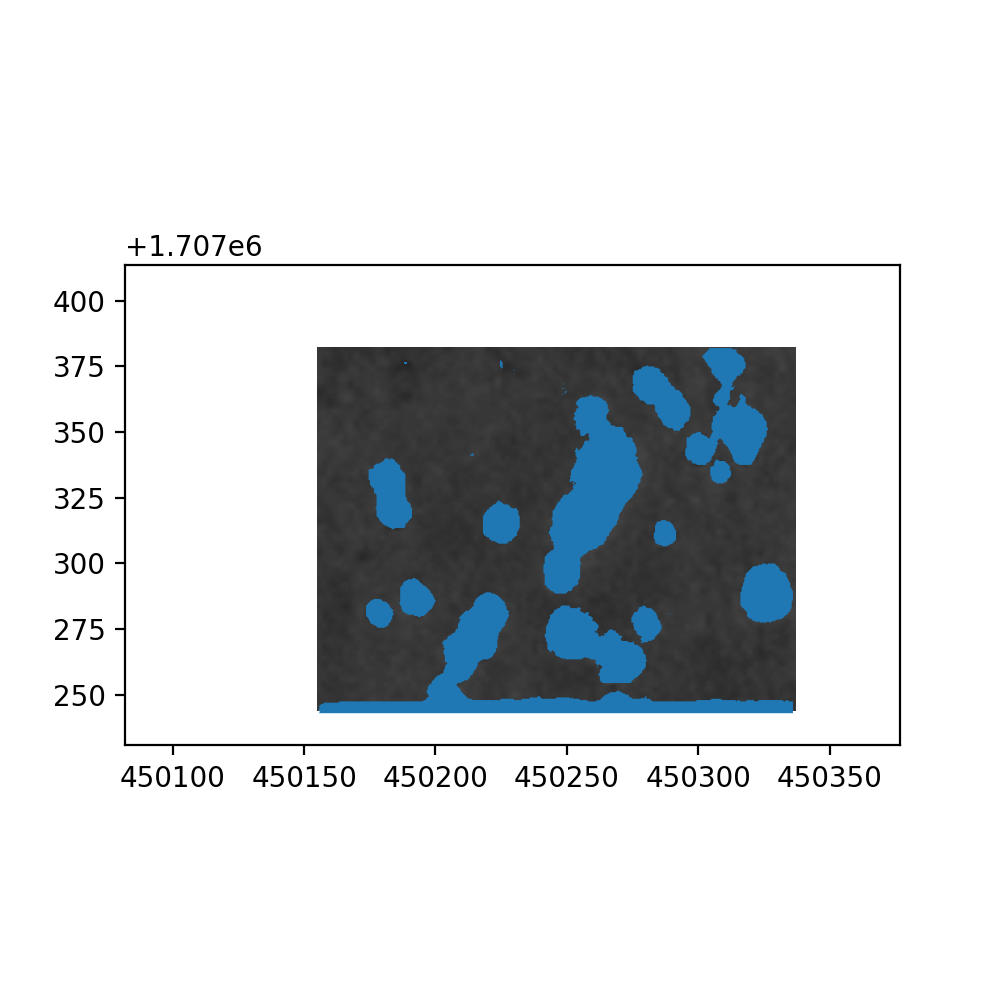
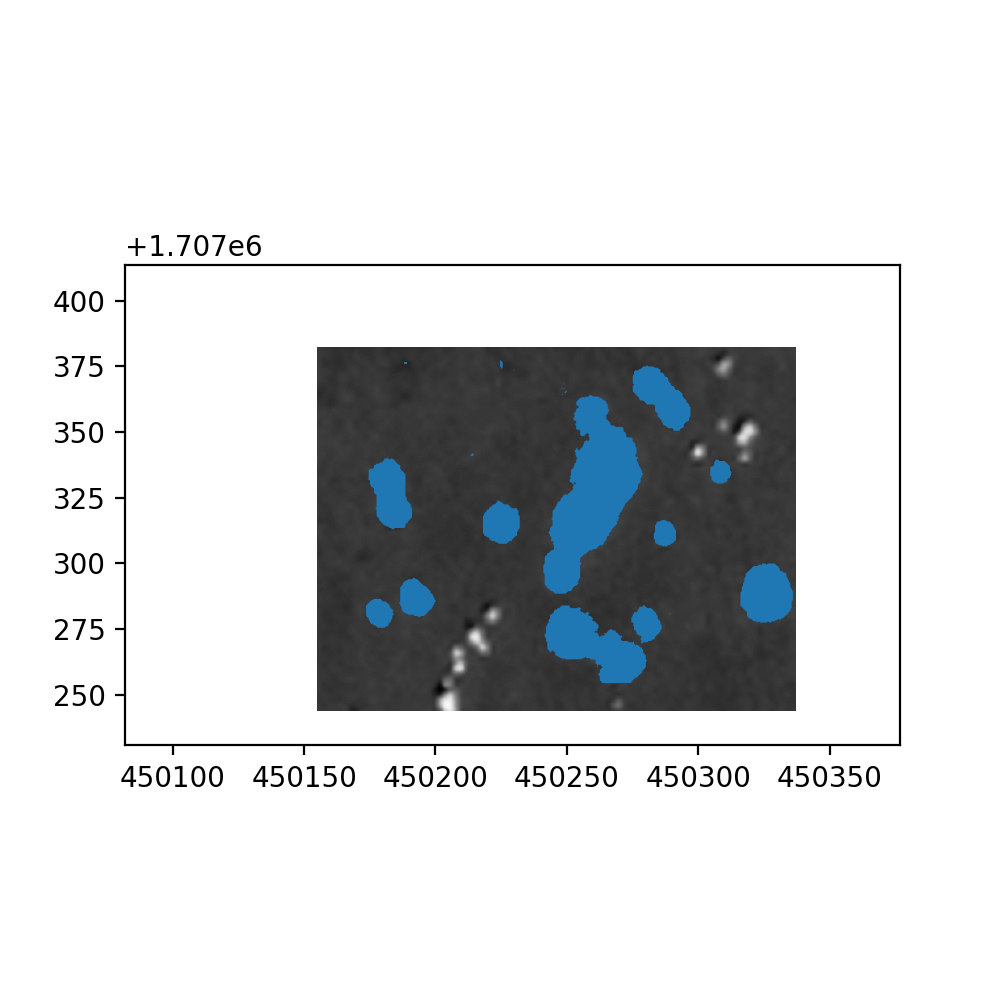
work from day

Changed region(s): [[0.31, 0.589, 0.806, 0.713], [0.682, 0.341, 0.775, 0.465]]

diff --git a/src/monthly/feb2023/saving-predictions/quick-plot.py b/src/monthly/feb2023/saving-predictions/quick-plot.py
@@ -22,9 +22,9 @@ plt.savefig('/Users/yaroslav/Documents/GitHub/cnn-tree-heights/src/monthly/feb20
 
 from cnnheights.utilities import shadows_from_annotations
 
-
 cutlines_shp = '/Users/yaroslav/Documents/Work/NASA/data/jesse/thaddaeus_cutline/SSAr2_32628_GE01-QB02-WV02-WV03-WV04_PAN_NDVI_010_003_mosaic_cutlines.shp'
 background_tif = '/Users/yaroslav/Documents/Work/NASA/layers/first-working-input/cutout_1.tif'
+big_tif = '/Users/yaroslav/Documents/Work/NASA/data/jesse/big mosaic/big mosaic.tif'
 
 save_path = '/Users/yaroslav/Documents/GitHub/cnn-tree-heights/src/monthly/feb2023/saving-predictions/shadows_gdf.feather'
 
@@ -32,4 +32,7 @@ shadows_gdf = shadows_from_annotations(annotations_gpkg=predictions_file,
                                        cutlines_shp=cutlines_shp, 
                                        north=1707319.01, east=450252.85, epsg='32628', save_path=save_path) # 450252.85,1707319.01
 
-print(shadows_gdf)
+from cnnheights.plotting import plot_shadow_lengths
+plot_path = 'src/monthly/feb2023/saving-predictions/predicted heights from predictions.png'
+plot_shadow_lengths(shadows_gdf.iloc[0:10], background_tif=big_tif, save_path=plot_path)
+

diff --git a/cnnheights/utilities.py b/cnnheights/utilities.py
@@ -112,10 +112,13 @@ def shadows_from_annotations(annotations_gpkg, cutlines_shp:str, north:float, ea
          'line_geometries':shadow_lines, 
          'lengths':shadow_lengths}
     
-    shadows_gdf = gpd.GeoDataFrame(d, crs=f'EPSG:{epsg}')
+    shadows_gdf = gpd.GeoDataFrame(d, crs=f'EPSG:{epsg}', index=list(range(len(shadow_lengths))))
+    shadows_gdf = gpd.GeoDataFrame(shadows_gdf[shadows_gdf['shadow_geometry'] != None])
+
+    print(shadows_gdf)
 
     if save_path is not None: 
-        shadows_gdf.to_file(save_path)
+        shadows_gdf.to_file(save_path, index=False)
 
     return shadows_gdf
 

diff --git a/cnnheights/main.py b/cnnheights/main.py
@@ -288,9 +288,9 @@ def predict(model, ndvi_image, pan_image, output_dir:str, crs:str):
 
         res = mask_to_polygons(detected_mask, detected_meta['transform'])
 
-        d = {'geometry':res}
+        d = {'geometry':[i for i in res if i.type == 'Polygon']}
         gdf = gpd.GeoDataFrame(d, crs=crs)
-        gdf = gdf[gdf.geom_type != 'MultiPolygon'] # NOTE THIS FOR FUTURE! HAD TO TAKE OUT GDF!!
+        #gdf = gdf[gdf.geom_type != 'MultiPolygon'] # NOTE THIS FOR FUTURE! HAD TO TAKE OUT GDF!!
         gdf.to_file(predicted_fp, driver='ESRI Shapefile')#, schema=schema)
 
         '''

diff --git a/src/monthly/feb2023/saving-predictions/fix_predictions_file.py b/src/monthly/feb2023/saving-predictions/fix_predictions_file.py
@@ -1,0 +1,17 @@
+import geopandas as gpd
+
+predictions_file = '/Users/yaroslav/Documents/GitHub/cnn-tree-heights/src/monthly/feb2023/saving-predictions/predicted_polygons.shp'
+crs = 'EPSG:32628'
+
+gdf = gpd.read_file(predictions_file)
+
+new_geometries = []
+
+for i in gdf['geometry']:
+    if i.type == 'Polygon': 
+        new_geometries.append(i)
+
+d = {'geometry':new_geometries}
+
+new_gdf = gpd.GeoDataFrame(d, crs=crs)
+new_gdf.to_file(predictions_file)

diff --git a/cnnheights/plotting.py b/cnnheights/plotting.py
@@ -95,7 +95,6 @@ def plot_annotations_gallery(shadows_gdf, background_tif:str, polygon_alpha:floa
 
     raster = rasterio.open(background_tif)
 
-    epsg = shadows_gdf.crs.to_epsg()
     length = len(shadows_gdf.index)
     fig, axs = plt.subplots(dim, dim, figsize=(6,6))
     for i in range(dim): 
